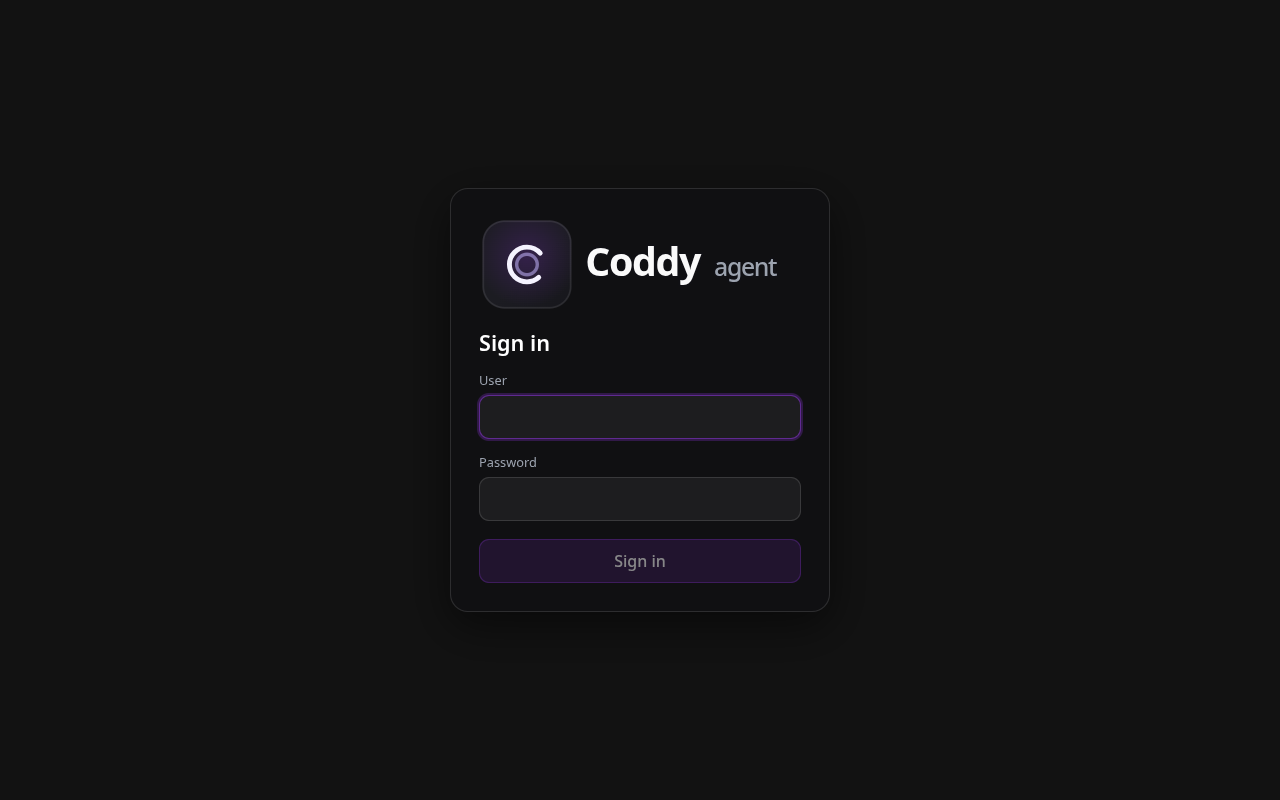
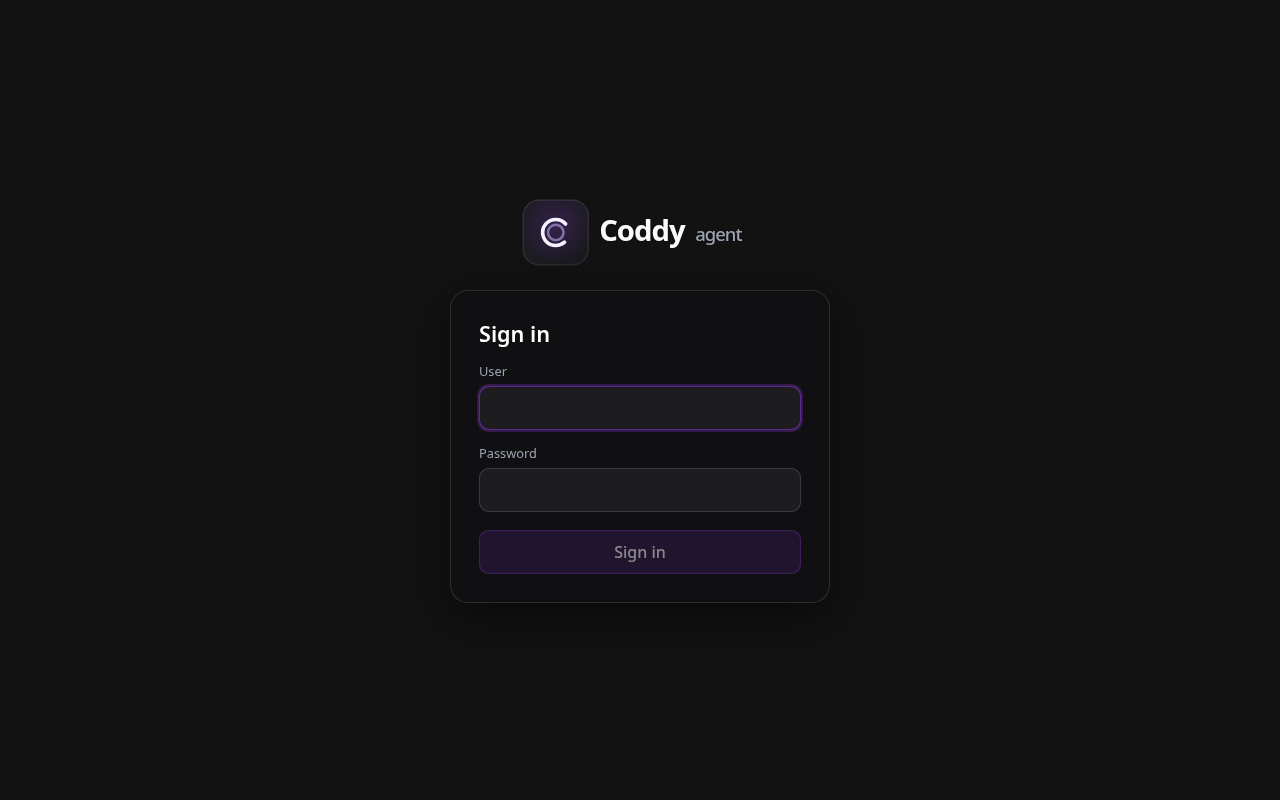
fix(ui): lift the wordmark out of the sign-in card
The logo was the first row inside the card, which made it look like part of the
form. It belongs to the product, and the card belongs to the one thing being
asked, so they are now two blocks in a column: the wordmark centred above, the
card below, 22px apart.

The mark is `min(240px, 72%)` of the column rather than its full width - the
proportion a page gives a header rather than a banner - with the aspect ratio
still holding its height so nothing under it moves while the image decodes.

Checked at 1280 on dark and 390 on light, with the Russian copy and the error
line: the logo and the card share a centre line, and neither width scrolls.

diff --git a/external/ui/src/ui/auth/SignInScreen.tsx b/external/ui/src/ui/auth/SignInScreen.tsx
@@ -66,7 +66,7 @@ export function SignInScreen(props: { onSignedIn?: () => void }) {
 
   return (
     <div className="auth-screen" data-testid="sign-in-screen">
-      <form className="auth-card" onSubmit={submit}>
+      <div className="auth-shell">
         <img
           className="auth-logo"
           src={wordmark}
@@ -74,49 +74,51 @@ export function SignInScreen(props: { onSignedIn?: () => void }) {
           width={188}
           height={56}
         />
-        <h1 className="auth-title">{t("auth.signIn.title")}</h1>
+        <form className="auth-card" onSubmit={submit}>
+          <h1 className="auth-title">{t("auth.signIn.title")}</h1>
 
-        <label className="auth-field">
-          <span className="auth-label">{t("auth.signIn.user")}</span>
-          <input
-            className="auth-input"
-            type="text"
-            name="username"
-            autoComplete="username"
-            autoFocus
-            value={user}
-            onChange={(e) => setUser(e.target.value)}
-            disabled={busy}
-          />
-        </label>
+          <label className="auth-field">
+            <span className="auth-label">{t("auth.signIn.user")}</span>
+            <input
+              className="auth-input"
+              type="text"
+              name="username"
+              autoComplete="username"
+              autoFocus
+              value={user}
+              onChange={(e) => setUser(e.target.value)}
+              disabled={busy}
+            />
+          </label>
 
-        <label className="auth-field">
-          <span className="auth-label">{t("auth.signIn.password")}</span>
-          <input
-            className="auth-input"
-            type="password"
-            name="password"
-            autoComplete="current-password"
-            value={password}
-            onChange={(e) => setPassword(e.target.value)}
-            disabled={busy}
-          />
-        </label>
+          <label className="auth-field">
+            <span className="auth-label">{t("auth.signIn.password")}</span>
+            <input
+              className="auth-input"
+              type="password"
+              name="password"
+              autoComplete="current-password"
+              value={password}
+              onChange={(e) => setPassword(e.target.value)}
+              disabled={busy}
+            />
+          </label>
 
-        {error ? (
-          <p className="auth-error" role="alert">
-            {error}
-          </p>
-        ) : null}
+          {error ? (
+            <p className="auth-error" role="alert">
+              {error}
+            </p>
+          ) : null}
 
-        <button
-          className="auth-submit"
-          type="submit"
-          disabled={busy || user.trim() === "" || password === ""}
-        >
-          {busy ? t("auth.signIn.working") : t("auth.signIn.submit")}
-        </button>
-      </form>
+          <button
+            className="auth-submit"
+            type="submit"
+            disabled={busy || user.trim() === "" || password === ""}
+          >
+            {busy ? t("auth.signIn.working") : t("auth.signIn.submit")}
+          </button>
+        </form>
+      </div>
     </div>
   );
 }

diff --git a/external/ui/src/styles.css b/external/ui/src/styles.css
@@ -10738,8 +10738,18 @@ html:not([data-theme="light"]) .swarm-graph-panel {
   background: var(--bg);
 }
 
-.auth-card {
+/* The logo stands above the card, not inside it: it belongs to the product, and
+   the card belongs to the one thing being asked. */
+.auth-shell {
   width: min(380px, 100%);
+  display: flex;
+  flex-direction: column;
+  align-items: center;
+  gap: 22px;
+}
+
+.auth-card {
+  width: 100%;
   display: flex;
   flex-direction: column;
   gap: 14px;
@@ -10751,14 +10761,13 @@ html:not([data-theme="light"]) .swarm-graph-panel {
   box-shadow: var(--coddy-glass-panel-shadow);
 }
 
-/* The wordmark carries the product name, so the card needs no text above the
-   title. It spans the card's content width; the aspect ratio of the 188x56
-   artwork fixes the height, so nothing reflows while the image decodes. */
+/* The wordmark is the heading of the page, above the card. The aspect ratio of
+   the 188x56 artwork fixes its height, so nothing below it moves while the
+   image decodes. */
 .auth-logo {
-  width: 100%;
+  width: min(240px, 72%);
   height: auto;
   aspect-ratio: 188 / 56;
-  margin-bottom: 2px;
 }
 
 .auth-title {

diff --git a/docs/surfaces/web-ui.md b/docs/surfaces/web-ui.md
@@ -90,8 +90,8 @@ Off unless the server has an account, and a server without one renders exactly a
 
 - **What decides:** **`AuthGate`** (**`external/ui/src/ui/auth/AuthGate.tsx`**, wrapping **`<App/>`** in **`main.tsx`**) calls **`GET /coddy/auth/me`** once on boot. **`login_required`** without **`authenticated`** renders **`SignInScreen`** instead of the app; anything else renders the app. While the answer is outstanding it renders a bare **`.auth-boot`** ground rather than the app, so the transcript is never shown and then yanked away.
 - **A server that cannot answer** - a network error, or a **404** from a `coddy serve` built before this existed - is read as "no sign-in here", so an older server keeps working with a newer page.
-- **The screen** (**`SignInScreen.tsx`**, **`.auth-screen`** / **`.auth-card`**) is the whole page, not a dialog over a blurred transcript: there is nothing behind it to look at. The wordmark, user, password, one error line (**`role="alert"`**), and a submit button disabled until both fields are filled, with no explanatory line under the title. Every string is a dictionary key (**`auth.signIn.*`**), and the card uses theme tokens only, so all seven themes and both languages carry it.
-- **The wordmark** is the rectangular logo (**`src/assets/coddy-logo-wordmark.svg`**, and **`-light.svg`** on the light theme) across the width of the card, inlined into the bundle rather than fetched, so the screen paints in one request. Its alt text is localized (**`auth.signIn.logoAlt`**).
+- **The screen** (**`SignInScreen.tsx`**, **`.auth-screen`** / **`.auth-shell`** / **`.auth-card`**) is the whole page, not a dialog over a blurred transcript: there is nothing behind it to look at. The wordmark sits above the card, centred and outside it; the card holds the title, user, password, one error line (**`role="alert"`**), and a submit button disabled until both fields are filled, with no explanatory line under the title. Every string is a dictionary key (**`auth.signIn.*`**), and the card uses theme tokens only, so all seven themes and both languages carry it.
+- **The wordmark** is the rectangular logo (**`src/assets/coddy-logo-wordmark.svg`**, and **`-light.svg`** on the light theme), inlined into the bundle rather than fetched, so the screen paints in one request. Its alt text is localized (**`auth.signIn.logoAlt`**).
 - **After a successful sign-in** the page reloads: every list, stream and cached response on it was fetched by a browser with no session.
 - **A session that ends while the page is open** - expired, rotated, signed out in another tab - brings the screen back: the local-origin **`fetch`** shim reports a **401** from any **`/v1/*`** or **`/coddy/*`** call (the **`/coddy/auth/*`** routes excepted) and the gate re-reads the state.
 - **Signing out** is the last entry of the nav rail (**`data-testid="nav-sign-out"`**), shown only while a form is configured and this browser has passed it; its tooltip names the account. It posts **`/coddy/auth/logout`** and reloads **only when the server actually dropped the session** - the cookie is HttpOnly, so a page that cleared its own state after a refusal would be signed straight back in by the reload and the button would look broken rather than refused.

diff --git a/DESIGN.md b/DESIGN.md
@@ -696,19 +696,22 @@ token of the environment selector and is never gated here.
 - **Boot.** While the one **`/coddy/auth/me`** round trip is outstanding the gate renders
   **`.auth-boot`** — a bare **`--bg`** ground, no spinner and no application chrome. Rendering the
   app and then replacing it with a form reads as a glitch; a spinner for 20 ms reads as a slow page.
-- **The card** is **`min(380px, 100%)`** wide with the glass panel tokens
+- **The column** (**`.auth-shell`**, **`min(380px, 100%)`**) holds two things with a **22px** gap:
+  the wordmark, then the card. The logo stands **above** the card and outside it, because it names
+  the product while the card asks for one thing.
+- **The card** (**`.auth-card`**, the column's full width) uses the glass panel tokens
   (**`--coddy-glass-panel-bg`** / **`-border`** / **`-backdrop`** / **`-shadow`** / **`-radius`**),
-  **28px** padding and a **14px** column gap: the wordmark, **`h1`** title, the two fields, the
-  error line, the submit button. Nothing explains the screen in prose - a form with two fields and
-  a product's own mark above it needs no caption.
-- **The wordmark** (**`.auth-logo`**) is the rectangular logo with the product name in it, not a
-  text line: **`src/assets/coddy-logo-wordmark.svg`** on the six dark themes and **`-light.svg`** on
-  **`light`** (**`LIGHT_THEMES`**). It spans the card's content width with
-  **`aspect-ratio: 188 / 56`** holding the height, so the card does not reflow while the image
-  decodes. Both files are under Vite's inline limit, so they travel inside the bundle and the one
-  screen a browser sees before it has any credential paints without a second request. Its **`alt`**
-  is a dictionary key (**`auth.signIn.logoAlt`**), because the name in the image is what a screen
-  reader must hear.
+  **28px** padding and a **14px** column gap: **`h1`** title, the two fields, the error line, the
+  submit button. Nothing explains the screen in prose - a form with two fields under a title that
+  says Sign in needs no caption.
+- **The wordmark** (**`.auth-logo`**, **`min(240px, 72%)`** of the column, centred) is the
+  rectangular logo with the product name in it, not a text line:
+  **`src/assets/coddy-logo-wordmark.svg`** on the six dark themes and **`-light.svg`** on
+  **`light`** (**`LIGHT_THEMES`**). **`aspect-ratio: 188 / 56`** holds its height, so nothing below
+  it moves while the image decodes. Both files are under Vite's inline limit, so they travel inside
+  the bundle and the one screen a browser sees before it has any credential paints without a second
+  request. Its **`alt`** is a dictionary key (**`auth.signIn.logoAlt`**), because the name in the
+  image is what a screen reader must hear.
 - **Fields** are ordinary **`label`**-wrapped inputs (**`.auth-field`** / **`.auth-label`** /
   **`.auth-input`**) with **`autocomplete="username"`** and **`"current-password"`** so a password
   manager fills them. Focus draws the accent ring (**`--accent`** at 55% border, 25% glow), never a

diff --git a/docs/assets/INDEX.md b/docs/assets/INDEX.md
@@ -90,7 +90,7 @@ Generated by `make docs`. "Used by" lists the files that reference the asset.
 | `todo-tool-preview-dark.png` | 25 KB | docs/surfaces/web-ui.md |
 | `transcript-long-dialog-1280.png` | 458 KB | docs/surfaces/web-ui.md |
 | `update-report-dark-1920.png` | 199 KB | docs/getting-started/update.md |
-| `webui-sign-in-dark-1280.png` | 28 KB | docs/surfaces/web-ui.md |
+| `webui-sign-in-dark-1280.png` | 23 KB | docs/surfaces/web-ui.md |
 
 ### docs/assets/cli-tui
 
